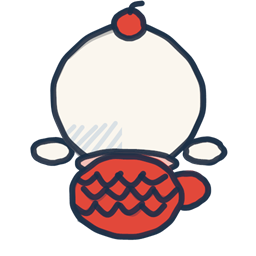
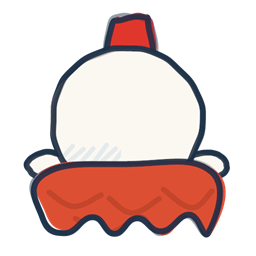
Draw the whole game in one hand-drawn style
The mermaid now follows the reference: a red crest on the dome and a
ruffled skirt rather than fish scales, with the arms peeking out at the
sides. The cave, the shiruko sand and the rocks are redrawn to match, so
the painted background no longer sits under line-art characters — the
scene reads as one drawing.

The sprite sheet is gone with them. Two of its three cells were never
drawn, so the snack is its own file and the game keeps 80KB it used to
ship for nothing. Assets total 158KB, down from 505KB.

The multiplier moves to the top right; at the bottom left it sat under
the left movement button on a phone.

Changed region(s): [[0.0938, 0.0, 0.9062, 0.9375]]

diff --git a/app/game.tsx b/app/game.tsx
@@ -26,9 +26,6 @@ import {
 import { GAME_OVER_LINES } from './game-over-lines';
 import { withBase } from './base-path';
 
-// Sprite sheet holds three square cells side by side.
-const SPRITE_CELL = 192;
-
 export default function GamePanel() {
   const canvas = useRef<HTMLCanvasElement>(null),
     field = useRef<HTMLDivElement>(null),
@@ -136,10 +133,10 @@ export default function GamePanel() {
       caveImage.onerror =
       scaleImage.onerror =
         () => setAssetError(true);
-    img.src = withBase('/sprites.png');
+    img.src = withBase('/snack-rough.png');
     hero.src = withBase('/mermaid-rough.png');
-    rockImage.src = withBase('/rock-handdrawn.png');
-    caveImage.src = withBase('/cave-course-rough.jpg');
+    rockImage.src = withBase('/rock-rough.png');
+    caveImage.src = withBase('/cave-rough.jpg');
     scaleImage.src = withBase('/scale.png');
     const down = (e: KeyboardEvent) => {
       if (['ArrowLeft', 'ArrowRight', 'a', 'A', 'd', 'D'].includes(e.key)) {
@@ -235,8 +232,7 @@ export default function GamePanel() {
         // サクサクタイム warms the cave instead of darkening it.
         ctx.fillStyle = g.fever > 0 ? '#f7b04724' : '#0718272c';
         ctx.fillRect(0, 0, WIDTH, HEIGHT);
-        const draw = (
-          cell: number,
+        const drawSnack = (
           x: number,
           y: number,
           size: number,
@@ -248,17 +244,7 @@ export default function GamePanel() {
           ctx.globalAlpha = alpha;
           ctx.translate(x, y);
           ctx.rotate(angle);
-          ctx.drawImage(
-            sprite.current,
-            cell * SPRITE_CELL,
-            0,
-            SPRITE_CELL,
-            SPRITE_CELL,
-            -size / 2,
-            -size / 2,
-            size,
-            size,
-          );
+          ctx.drawImage(sprite.current, -size / 2, -size / 2, size, size);
           ctx.restore();
         };
         const drawRock = (
@@ -279,8 +265,8 @@ export default function GamePanel() {
         if (g.mode === 'ready') {
           drawRock(65, 85, 107, 0.1, 0.7);
           drawRock(423, 368, 95, -0.15, 0.65);
-          draw(1, 350, 95, 60, 0.2);
-          draw(1, 95, 430, 51, -0.2);
+          drawSnack(350, 95, 60, 0.2);
+          drawSnack(95, 430, 51, -0.2);
           if (mermaid.current) {
             ctx.drawImage(mermaid.current, 188, 491, 104, 104);
           }
@@ -312,7 +298,7 @@ export default function GamePanel() {
               );
               ctx.restore();
             } else {
-              draw(1, i.x, i.y, i.size, i.angle);
+              drawSnack(i.x, i.y, i.size, i.angle);
             }
           }
           if (mermaid.current) {
@@ -339,18 +325,18 @@ export default function GamePanel() {
             const top = g.fever > 0;
             const multiple = top ? MAX_MULTIPLIER : getMultiplier(g.combo);
             ctx.save();
-            ctx.textAlign = 'left';
-            ctx.font = 'bold 30px sans-serif';
+            ctx.textAlign = 'right';
+            ctx.font = 'bold 32px sans-serif';
             ctx.lineWidth = 6;
             ctx.strokeStyle = '#08222f';
-            ctx.strokeText(`×${multiple}`, 18, 610);
+            ctx.strokeText(`×${multiple}`, 462, 52);
             ctx.fillStyle = top ? '#ffe9a8' : '#ffd98a';
-            ctx.fillText(`×${multiple}`, 18, 610);
+            ctx.fillText(`×${multiple}`, 462, 52);
             const width = top ? 1 : Math.max(0, g.comboTimer / COMBO_WINDOW);
             ctx.fillStyle = '#08222f88';
-            ctx.fillRect(18, 618, 64, 5);
+            ctx.fillRect(398, 62, 64, 5);
             ctx.fillStyle = top ? '#ffe9a8' : '#ffd98a';
-            ctx.fillRect(18, 618, 64 * width, 5);
+            ctx.fillRect(398 + 64 * (1 - width), 62, 64 * width, 5);
             ctx.restore();
           }
           if (g.fever > 0) {

diff --git a/app/globals.css b/app/globals.css
@@ -483,6 +483,12 @@ canvas {
     font-size: 38px;
   }
 }
+/* On a phone the card is narrow enough that 16px copy breaks mid-phrase. */
+@media (max-width: 420px) {
+  .start-card p {
+    font-size: 14px;
+  }
+}
 .sr-only {
   position: absolute;
   width: 1px;
